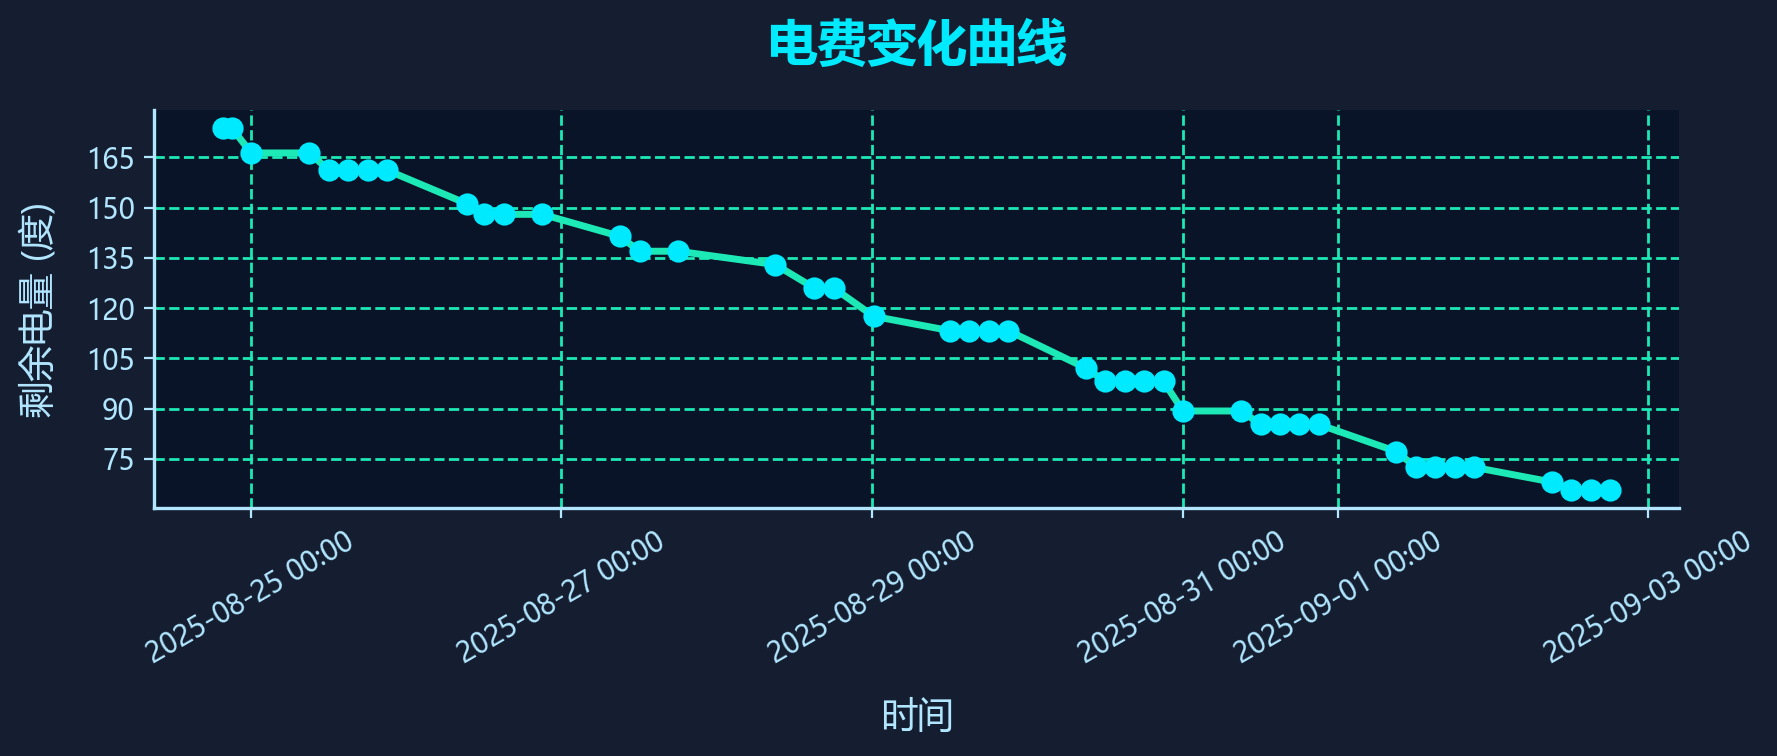
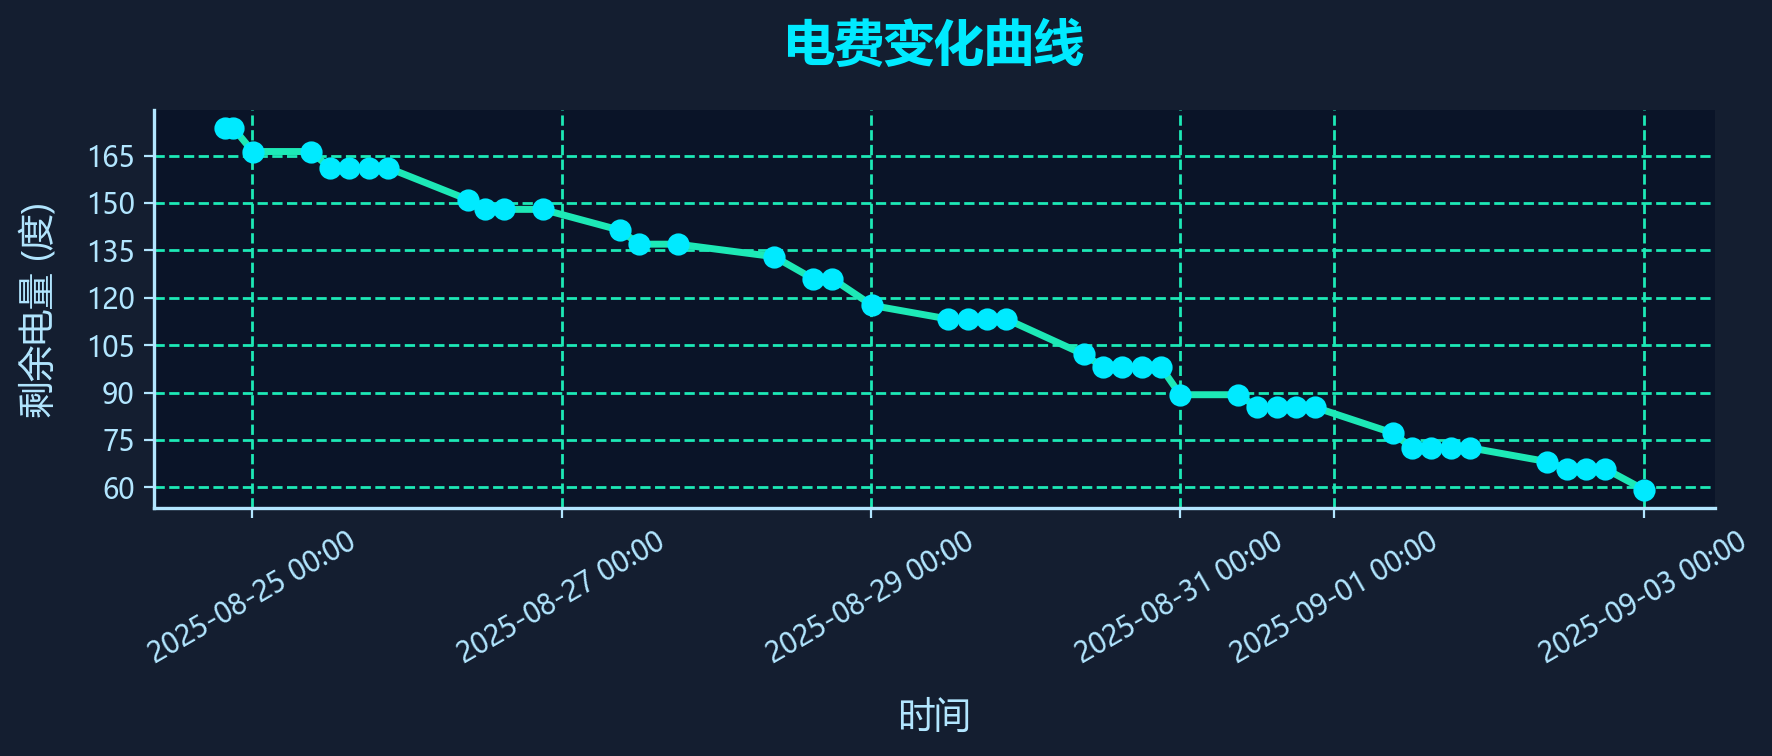
2025-09-03 00:03 自动提交电费变更

diff --git a/data/debug_page_source.html b/data/debug_page_source.html
@@ -2,7 +2,7 @@
     <meta http-equiv="Content-Type" content="text/html; charset=UTF-8">
     <meta http-equiv="X-UA-Compatible" content="IE=edge">
     <meta name="viewport" content="width=device-width, initial-scale=1, user-scalable=no">
-    <meta name="_csrf" content="8612c72c-9b66-447d-9304-208ff64791a8">
+    <meta name="_csrf" content="40501cf6-c5fa-480a-a43e-4aba1fe907a0">
     <meta name="_csrf_header" content="X-CSRF-TOKEN">
     <link type="image/png" href="/epay/images/nju/icon.png" rel="shortcut icon">
     <link type="text/css" rel="stylesheet" href="/epay/css/wxpage/weui.min.css">
@@ -32,7 +32,7 @@
 
 
 <body>
-<div id="app"><div class="centent"><div class="top"><div class="clearfix"><span class="fl">持卡人姓名：<i>吴相民</i></span></div> <div class="clearfix"><span class="fl">校园卡余额：<i class="green">98.60元</i></span></div></div> <div class="line"></div> <div class="cont"><div class="clearfix"><span class="fl">缴费地址：<i>仙林校区 18幢 18栋第17层1702</i></span></div> <div class="clearfix"><span class="fl">剩余电量：<i>65.86度</i><em></em></span></div> <!----> <!----></div> <div class="num clearfix"><div style="display: flex; flex-wrap: wrap;"><span class="active">10元</span><span class="">20元</span><span class="">50元</span><span class="">100元</span><span class="">200元</span><span class="">自定义</span></div></div> <div class="inputbox" style="display: none;"><input type="text" placeholder="请输入充值金额" pattern="[0-9]*" maxlength="4" id="amount"></div> <div class="footer">充值</div> <div class="desc">充值时间：每天00:05-23:55</div> <div class="wapat"><div class="wapat-inner"><div class="wapat-title">错误！</div> <div class="wapat-btn-box"><div class="wapat-btn wapat-btn-ok">确定</div></div></div></div></div></div>
+<div id="app"><div class="centent"><div class="top"><div class="clearfix"><span class="fl">持卡人姓名：<i>吴相民</i></span></div> <div class="clearfix"><span class="fl">校园卡余额：<i class="green">86.60元</i></span></div></div> <div class="line"></div> <div class="cont"><div class="clearfix"><span class="fl">缴费地址：<i>仙林校区 18幢 18栋第17层1702</i></span></div> <div class="clearfix"><span class="fl">剩余电量：<i>59.28度</i><em></em></span></div> <!----> <!----></div> <div class="num clearfix"><div style="display: flex; flex-wrap: wrap;"><span class="active">10元</span><span class="">20元</span><span class="">50元</span><span class="">100元</span><span class="">200元</span><span class="">自定义</span></div></div> <div class="inputbox" style="display: none;"><input type="text" placeholder="请输入充值金额" pattern="[0-9]*" maxlength="4" id="amount"></div> <div class="footer">充值</div> <div class="desc">充值时间：每天00:05-23:55</div> <div class="wapat"><div class="wapat-inner"><div class="wapat-title">错误！</div> <div class="wapat-btn-box"><div class="wapat-btn wapat-btn-ok">确定</div></div></div></div></div></div>
 
 
 
